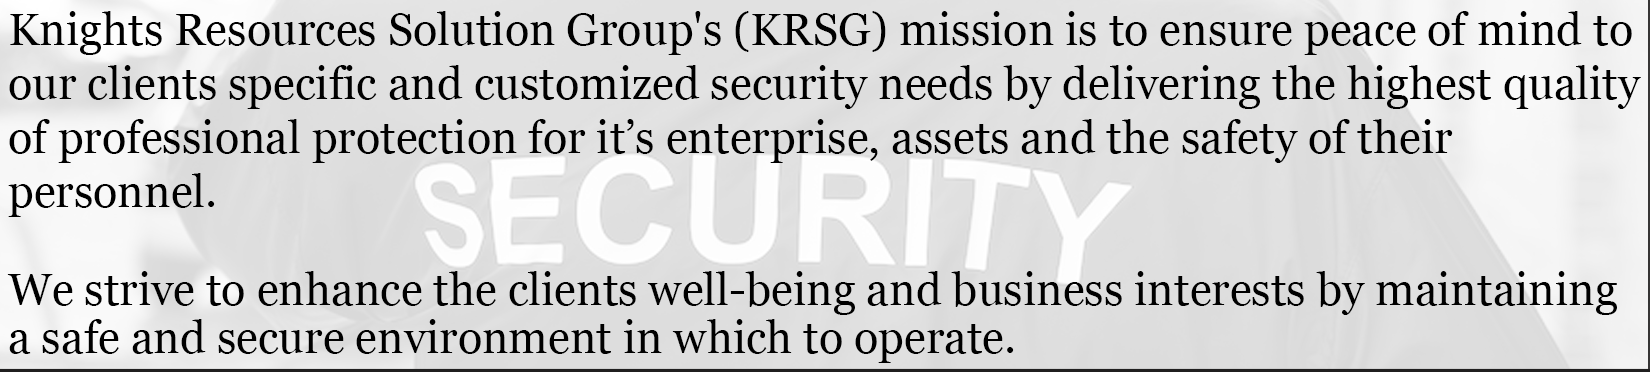
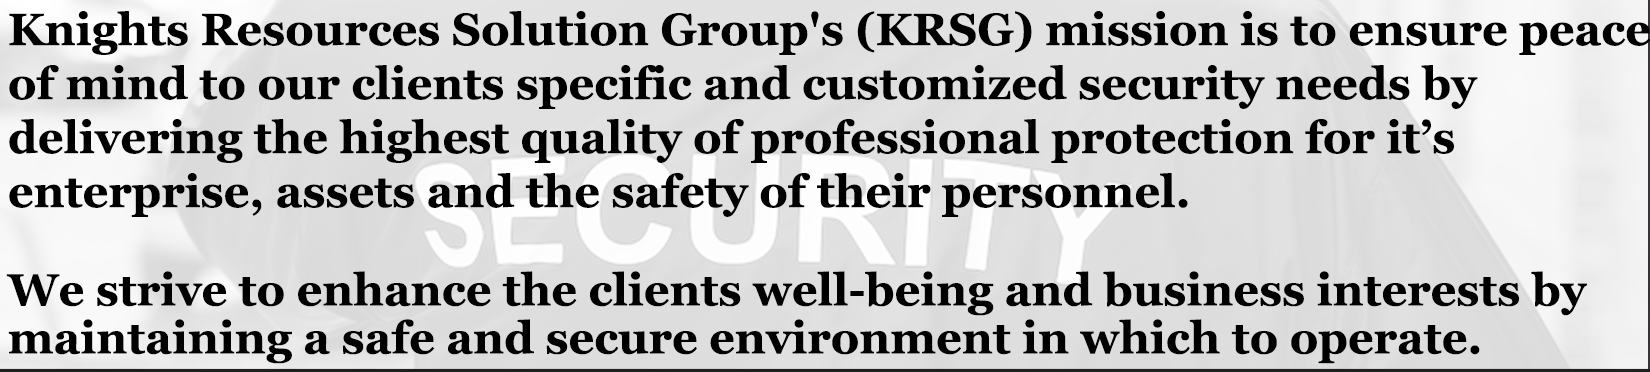
fixed font sizes

diff --git a/krsg.css b/krsg.css
@@ -11,32 +11,6 @@
         padding: .5em;
     }
 
-    /*nav {*/
-    /*    background-color: darkgrey;*/
-    /*    overflow: hidden;*/
-    /*    color: black;*/
-    /*}*/
-
-    /*nav a {*/
-    /*    float: left;*/
-    /*    color: black;*/
-    /*    text-align: center;*/
-    /*    padding: 0.6em 0.6em;*/
-    /*    text-decoration: none;*/
-
-    /*}*/
-
-
-    /*nav a:hover {*/
-    /*    background-color: white;*/
-    /*    color: black;*/
-    /*}*/
-
-    /*nav a.active {*/
-    /*    background-color: goldenrod;*/
-    /*    color: black;*/
-    /*}*/
-
     img {
         display: block;
         margin-left: auto;
@@ -117,13 +91,10 @@
 
     .flex-item {
         background-color: black;
-        border: 0.5em solid darkgrey;
+        border-inline: 0.2em solid darkgrey;
         font-family: "Copperplate", sans-serif;
-        font-size: 1.5em;
-        font-weight: lighter;
         text-align: center;
-        padding: .5em;
-        /*margin: 10px;*/
+        padding: .3em;
     }
 
     #certs > img {
@@ -177,7 +148,6 @@
  }
 
  @media screen and (max-width: 768px) {
-
      main {
          padding: 0;
      }
@@ -216,7 +186,11 @@
      }
 
      h1 {
-         font-size: 2rem;
+         font-size: 2em;
+     }
+
+     h2 {
+         font-size: 1.5em;
      }
 
      td:nth-child(2) {
@@ -232,11 +206,18 @@
 
      .flex-item {
          flex: 50%;
+         border: 0.5em solid darkgrey;
+         border-left: 3em solid darkgrey;
+         border-right: 3em solid darkgrey;
      }
 
      footer {
          position: fixed;
-         height: 11%;
+         height: 7%;
+     }
+
+     footer > p {
+         font-size: 0.8em;
      }
  }
 

diff --git a/index.html b/index.html
@@ -145,8 +145,6 @@
         <img src="img/bottomLogo1.png" alt="bottom1">
         <img src="img/bottomLogo2.png" alt="bottom2">
         <br>
-        <br>
-        <br>
     </div>
 </main>
 <footer>
